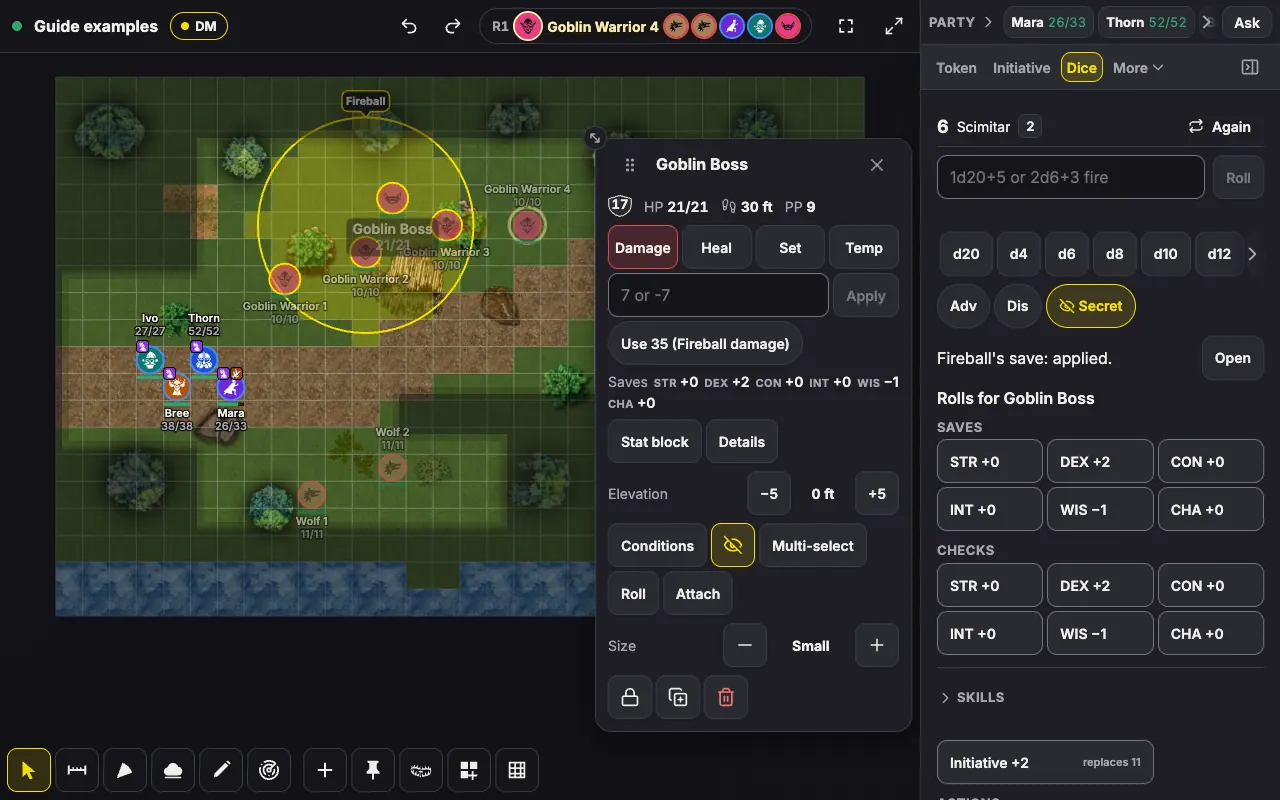
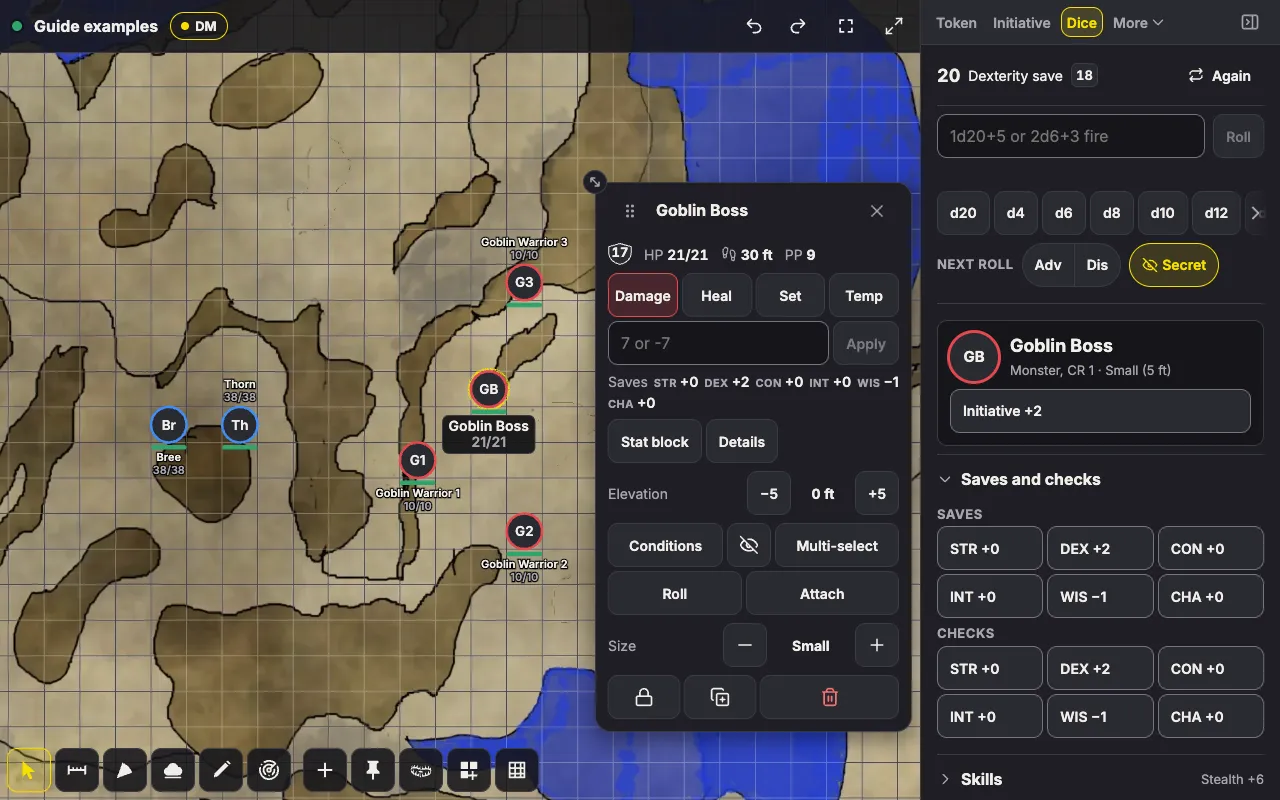
docs: the next roll row, folding recent rolls, the roll options card and groups, and the several selected card in the feature list and the dm guide, with a new dice picture

diff --git a/FEATURES.md b/FEATURES.md
@@ -320,18 +320,18 @@ The Builder tool is the DM's. Its modes:
 
 Every roll happens on the server, with a secure random source, so everyone sees the same result and nobody can fake one.
 
-- The Dice panel is for everyone, after Initiative among the tabs. Type any formula and tap Roll, or press Enter: "10d4+1d8", "4d6kh3" (keep the three highest), "4d6dl1" (drop the lowest), "d%", "2d6+3 fire" (the words after the formula are its label) or "1d20+5 Stealth adv". A roll holds up to 100 dice and 20 parts. The line under the field reads the roll and its range before you roll it, such as "2d6+3, fire: 5 to 15". Quick dice, the d20 first, then d4 to d100, add a die to the field.
-- Adv, Dis and Secret are for the next roll only: the tap that rolls takes them, and they go back to their start, so a second roll never shares the first one's Advantage. Advantage and Disadvantage cancel to a normal roll however many of each a roll has, the words "adv" and "dis" typed in the field included.
+- The Dice panel is for everyone, after Initiative among the tabs. Type any formula and tap Roll, or press Enter: "10d4+1d8", "4d6kh3" (keep the three highest), "4d6dl1" (drop the lowest), "d%", "2d6+3 fire" (the words after the formula are its label) or "1d20+5 Stealth adv". A roll holds up to 100 dice and 20 parts. The line under the field reads the roll and its range before you roll it, such as "2d6+3, fire: 5 to 15". Quick dice, the d20 first, then d4 to d100, add a die to the field, and line up with its edge. Where the field is too narrow for its hint, the hint shortens to "1d20+5".
+- **Next roll** sits under the quick dice: Adv and Dis joined as one choice of two, and Secret beside them, since it answers who sees the roll rather than how it rolls. Where the row has no room, as on a phone at 130%, Secret wraps under them and fills its line. All three are for the next roll only: the tap that rolls takes them, and they go back to their start, so a second roll never shares the first one's Advantage. Advantage and Disadvantage cancel to a normal roll however many of each a roll has, the words "adv" and "dis" typed in the field included.
 - Secret: a DM's rolls for monsters start secret. The Secret chip follows the selection, so a formula the DM types with a monster selected starts secret too, and one typed with no creature selected, or only creatures players play, starts public. One tap changes it. A press holds for the creatures it was made for, and selecting another creature starts Secret again, so a monster's roll starts secret even after the last monster's was shown. A player can send one roll to the DM only. The DMs and the roller read it in full. Other players read "Mara rolled in secret." only when the same roll made public would have reached them, so a roll for a creature they cannot see leaves no trace.
 - The newest roll stays at the top of the panel, with its dice as chips, a dropped die struck through and a natural 20 or 1 marked, and Again rolls it once more. An answer to the DM's request and a Death Saving Throw show there too, with no Again, since neither can go again as it went. A refusal shows there with its reason. On a narrow screen it keeps the total, a Critical Hit's sum and Again whole, shows the dice that fit whole with "+2" for the rest, and ends a long name in "…". A tap on it opens the roll in Recent rolls. It is the one place a roll's result shows in the panel: no row repeats it, so the panel never grows under a button as rolls land.
-- Recent rolls lists every roll in the log, newest first, a roll of several dice groups as one row, with Again on your own. Again rolls it as it went, so a creature's save rolled again is that save again and a condition that fails it, such as Stunned on a Dexterity save, still records the fail. Older rolls are in the Log.
+- Recent rolls lists every roll in the log, newest first, a roll of several dice groups as one row, with Again on your own. Again rolls it as it went, so a creature's save rolled again is that save again and a condition that fails it, such as Stunned on a Dexterity save, still records the fail. A row of one line is one touch target tall, its words level with Again. Older rolls are in the Log. Recent rolls folds like the panel's other groups, open at first, and stays folded or open on this device whoever you roll for. Folded, its row shows the newest roll, such as "Thorn 20 Longsword". A tap on the newest roll at the top opens it for the page without changing what is kept, and brings the roll into view.
 - Others' rolls show as toasts while your Dice panel is not on screen, one for each roll ("Bree rolled 19 for Stealth.", or a damage of two types as its sum, "Bree rolled 14 for Flame Tongue damage."), and a roll of your own whose panel closed before it landed shows as one too. This device can turn the others' off. A toast of one d20 roll (an attack, a save, a check or Initiative) leads with a flat d20 showing the die that counted. A Natural 20, or a Critical Hit against an AC, rings once in your accent, and a Natural 1 is outlined in red. A screen reader hears the verdict after the toast's words.
 - **Roll animation**: a roll you make in the Dice panel throws 3D dice into a band under the newest roll, from the button or field that rolled. They tumble and land on the server's faces 1 second after the answer arrives, and the total, its chips and the Recent rolls row show then. The deciding d20 of a Natural 20 or a Critical Hit rings once, and a Natural 1 is ringed in red. Up to two rows of dice show, the rest counted on a "+N" disc, and percentile dice throw as a tens die and a units die. Any tap or key in the panel during the throw, a newer roll, closing or resizing the panel, or leaving the page shows the result at once, and the tap or key still does its own job. A screen reader hears the result as it arrives. Only your own rolls from the Dice panel throw: others' rolls, the tracker's Roll, rolls for several creatures, the group save and Auto Initiative show at once, as before. The dice load in the background after the room opens, so a roll before they are ready shows at once. With reduced motion, the dice appear already at rest and the result shows at once. With Low power, the switch off, or a device that cannot draw them, every result shows at once. The dice are drawn in code, with no image files.
 - Rolling very fast pauses you for a few seconds ("You are going too fast. Wait a few seconds."). A room's day holds 10,000 rolls and applied changes, a player's 2,000, and the players together leave the DMs 2,000 of them.
 - A roll needs a connection: while the room is offline, Roll is off and says "Rolling needs a connection." A roll sent just before the connection dropped is sent again and still rolls once. If its answer was lost, the device asks the server what became of it, and never rolls it again by itself: "This may have happened. Check the log."
-- **Roll options**: the DM taps a token, a player picks a character, a companion or another creature they own, and the Dice panel lists its saves, checks, skills, Initiative, Death Saves, attacks with riders and Critical Hits, save actions, healing and recharge, from its stat block, 2014 text included. A named roll is one line of text as a stat block reads ("Longsword +6 to hit, 1d8+3 Slashing, +2d8 Divine Smite", or "Sacred Flame DC 14 DEX, 1d8 Radiant" for a save spell, which names its DC) over one line of its controls, Attack, Damage, Critical and its riders by name, and a slot level between a minus and a plus. A button's words wrap inside it. Saves and checks are three across. Conditions such as Restrained, Poisoned or Bless set Advantage, Disadvantage or a die on every d20 roll, and an effect every roll of a group shares is named once in the group's label ("Saves: +1d4: Blessed") rather than on each button. A roll the DM asked for answers the request, Initiative goes into the tracker, and the newest damage, a player's included, shows in every HP entry as "Use 9". Roll in a token's action bar opens them. For a creature a player plays, the DM's "Ask Bree to roll" switch starts on and asks its player for saves and checks. A creature with no stat block, or a character whose numbers go only to the DM and its own players, still lists its saves, checks, skills and Initiative, with no bonus shown: a tap that asks its player needs nothing, and a roll made here takes a bonus typed above them ("STR d20", then "STR d20+3"), never an unknown +0. A player's save spell or save action has **Ask for saves**, which opens a short block under its row: the save and DC, who it hits (the creatures selected, or everyone the player sees in an area placed from it, such as "In area (2): Goblin 1, Bree (ally)"), the casting level, and **Roll 9d6 Fire and ask**, which rolls the damage on the player's own dice in the same tap, or **Ask, the DM rolls**. The ask waits on the row, "Asked the DM for saves. Waiting.", with Withdraw, until the DM resolves it ("The DM resolved Fireball.") or sets it aside. A player has at most 3 asks waiting, and a room 20. Other players never learn of an ask, and a creature the player can't see never enters one.
+- **Roll options**: the DM taps a token, a player picks a character, a companion or another creature they own, and the Dice panel lists its saves, checks, skills, Initiative, Death Saves, attacks with riders and Critical Hits, save actions, healing and recharge, from its stat block, 2014 text included. They sit in a card under a line that parts them from the roller: the creature's picture, its name and a line such as "Level 5 character · Medium (5 ft)", then the Ask switch, Death Save while it is dying, a typed bonus where the app knows none, and Initiative, whose tag says what the tap does ("replaces 12 · −4"). A player with two or more creatures, such as a character, its companion and a lent NPC, picks one from tabs across the card's top, the picked one underlined. Under the card the options fold into groups in the stat block's order: Saves and checks, Skills, Traits, Actions, Bonus Actions, Reactions, Legendary Actions and Spells, the spells under Cantrips, Level 1 and so on where they span levels. On a computer Saves and checks start open and on a phone folded, Skills and Traits start folded everywhere, and the rest open. A group you fold or open stays that way on this device, kept apart for characters, companions and monsters, and viewing as a player never stores one. A folded group shows a one-line summary, such as "Str +4, Dex +1, Con +3…" or "DC 14 · +6 to hit · 13 spells". A new ask for a save or check, or a new ask for saves you cast, opens its group once, and while one waits in a group you folded again, its summary leads with it: "Asked: DEX save". A token's Roll lands the panel on Next roll, whole under the newest roll, with the card after it. A named roll is one line of text as a stat block reads ("Longsword +6 to hit, 1d8+3 Slashing, +2d8 Divine Smite", or "Sacred Flame DC 14 DEX, 1d8 Radiant" for a save spell, which names its DC) over one line of its controls, Attack, Damage, Critical and its riders by name, and a slot level between a minus and a plus. A button's words wrap inside it, and a row's buttons share each line. Saves and checks are three across. Conditions such as Restrained, Poisoned or Bless set Advantage, Disadvantage or a die on every d20 roll, and an effect every roll of a group shares is named once in the group's label ("Saves: +1d4: Blessed") rather than on each button. A roll the DM asked for answers the request, Initiative goes into the tracker, and the newest damage, a player's included, shows in every HP entry as "Use 9". Roll in a token's action bar opens them. For a creature a player plays, the DM's "Ask Bree to roll" switch starts on and asks its player for saves and checks. A creature with no stat block, or a character whose numbers go only to the DM and its own players, still lists its saves, checks, skills and Initiative, with no bonus shown: a tap that asks its player needs nothing, and a roll made here takes a bonus typed above them ("STR d20", then "STR d20+3"), never an unknown +0. A player's save spell or save action has **Ask for saves**, which opens a short block under its row: the save and DC, who it hits (the creatures selected, or everyone the player sees in an area placed from it, such as "In area (2): Goblin 1, Bree (ally)"), the casting level, and **Roll 9d6 Fire and ask**, which rolls the damage on the player's own dice in the same tap, or **Ask, the DM rolls**. The ask waits on the row, "Asked the DM for saves. Waiting.", with Withdraw, until the DM resolves it ("The DM resolved Fireball.") or sets it aside. A player has at most 3 asks waiting, and a room 20. Other players never learn of an ask, and a creature the player can't see never enters one.
 - **Critical Hits**: an attack's Critical, which a natural 20 (or a wider critical range) presses on its own, rolls every damage die of the hit, riders such as Sneak Attack included, by the room setting "Critical Hit damage" (Room settings, Combat): Roll the dice twice (2d6+3 crits as 4d6+3, the 2024 rule and the default), Max plus a roll (12 + 2d6 + 3), Double the dice rolled ((2d6 × 2) + 3) or Double the total ((2d6 + 3) × 2). One rule for monsters and characters alike, applied by the server. The roll shows how it was reached: in the log and Recent rolls ("12 max + 2d6+3 (4, 6) = 25"), and at the top of the Dice panel and in its toast ("25 (12 max + 13)"). Saves never crit.
-- **Several creatures** (DM): one save or check for all, Initiative for the ones in the fight, or a shared attack with its hits against an AC and its damage.
+- **Several creatures** (DM): a card with up to three of their pictures, "3 selected" and their names, holding a DC, Initiative for the ones in the fight and Set up a group save. Under it, Saves and checks, Skills and Shared attacks fold as a creature's groups do, each kept on this device. A save's button reads "DEX" under the label "Saves for 3", one line at every size, and is still named "DEX save for 3". One tap rolls a save or check for all. A shared attack rolls with each creature's own bonus against an AC, then "Roll damage for 2 hits" rolls the hits' damage. Folding Shared attacks, or selecting other creatures while two or more stay selected, keeps the hits and the damage button, and a folded group names the hits that wait ("Scimitar: 2 hits"). Fewer than two selected clears them. A group save left open shows as a notice above the card, "Fire Breath's save: set up.", with Open.
 - **The group save** (DM): monsters rolled at once, players' creatures asked with the DM's roll one tap away (with a bonus the DM types for one with no stat block), a creature with no stat block rolled on the server with a bonus the DM types ("Server d20+3") or typed, pass or fail against a DC, damage rolled once and kept by type, full or half, conditions on a fail with their end, resistances, immunities, Evasion, Magic and Legendary Resistance on each row, every row changeable, its damage included, one Apply and one undo. Until the roll its creatures follow the selection, so a save action's Group save fills with the creatures selected after it. Monsters' rolls the DM shows to players carry the DC only with "Players see the DC" on, and a save-ends or Concentration roll in the open never shows its DC. Those switches fold into one "What players see" line that says what they are, as on the request sheet, and the damage field is labelled Damage. It stays on the DM's device through a reload, and an Apply whose answer was lost is never sent again unless the DM says so. A player's ask for saves comes as a card above the live cards, "Thorn asks for saves: Fireball, level 4", with the player's roll ("Thorn rolled 31 Fire") and the area's count, hidden creatures included, or the targets, with Open and Dismiss. It counts among the newest two on a phone and leads the alerts summary over a sheet. Open fills the group save from the caster's stat block as the DM sees it, at the asked level, whose Slot level stepper changes it, with the player's roll as the page's damage, and an ask on another scene reads "Go to Crypt and open". Apply resolves the ask in the same step, and where nothing would change it reads Close the ask. Discard leaves the ask waiting, and Dismiss sets it aside for good. An ask withdrawn or set aside while the page is open leaves a plain group save, and one resolved on another device stops Apply, so a spell never lands twice.
 
 ## Rolls
@@ -596,6 +596,7 @@ Where the action bar opens as a window: on a screen 600 px or wider, or a phone 
 | Up, Down | Go back through the formulas this device rolled, newest first, or forward again to what was being typed | everyone, in the formula field |
 | Any tap or key | Show the result at once, then do its own job | everyone, in the Dice panel while your dice are in the air |
 | Enter | Roll the parts, or take the typed numbers | DM, in the group save's damage field |
+| Left, Right, Home, End | Pick another creature to roll for | everyone, in the Dice panel's creature tabs |
 
 ### Roll requests
 

diff --git a/docs/dm-guide.md b/docs/dm-guide.md
@@ -612,7 +612,7 @@ A few more details follow from this. A creature added mid-fight waits for its ow
 
 Every roll in the app happens on the server, so everyone sees the same result and nobody can fake one. Players who prefer real dice can still roll at the table and type their totals wherever the app asks for one, unless you turn off **Players may type their roll totals** in Room settings. The **Dice** panel is open to everyone.
 
-![The Dice panel with a goblin selected: the formula field, quick dice, Adv, Dis and Secret, and the goblin's roll options with its saves, checks and Initiative.](dm-guide/dice.webp)
+![The Dice panel with the Goblin Boss selected: its last roll at the top, the formula field and quick dice, Adv and Dis joined under Next roll beside Secret, and the boss's card with Initiative above its open Saves and checks and its folded Skills.](dm-guide/dice.webp)
 
 **Typing a roll.** Type a formula in the field and press **Roll** or Enter. A few examples of what it understands:
 
@@ -624,9 +624,9 @@ Every roll in the app happens on the server, so everyone sees the same result an
 
 The line under the field reads back the roll and its range before you roll it ("2d6+3, fire: 5 to 15"), so you can catch a typo. The quick dice add a die to the field, and the Up and Down keys step back through the formulas you have rolled.
 
-**Adv**, **Dis** and **Secret** apply to the next roll only, then turn themselves off. A secret roll shows in full to the DMs, while the other players read only "Dana rolled in secret." Your rolls for monsters start secret: with a monster selected, even a formula you type starts secret. With nothing selected, or a character selected, it starts in the open.
+Under the quick dice sits the **Next roll** row. **Adv** and **Dis** are joined into one control, because a roll takes one or the other, never both, and **Secret** stands on its own beside them, since it decides who sees the roll rather than how it is rolled. On a narrow phone with a larger interface size, Secret moves to a line of its own under the other two. All three apply to the next roll only, then turn themselves off. A secret roll shows in full to the DMs, while the other players read only "Dana rolled in secret." Your rolls for monsters start secret: with a monster selected, even a formula you type starts secret. With nothing selected, or a character selected, it starts in the open.
 
-The newest roll stays at the top of the panel with its dice, and **Again** rolls it once more. This line is the one place in the panel where a result appears, even for a roll you made from a creature's roll options further down, so the panel never grows under your finger as rolls land. An answer you send to a request and a Death Saving Throw show there too, without Again, since neither can be sent again as it was. On a narrow screen the line keeps the total and Again whole, shows as many dice as fit, and counts the rest as "+2". Tap the line to see the whole roll in Recent rolls. **Recent rolls** lists the rolls in the log, newest first. Other people's rolls pop up as short notices while your Dice panel isn't on screen. To turn those off, open the Menu, then **This device**, and turn off **Show others' rolls as they happen**.
+The newest roll stays at the top of the panel with its dice, and **Again** rolls it once more. This line is the one place in the panel where a result appears, even for a roll you made from a creature's roll options further down, so the panel never grows under your finger as rolls land. An answer you send to a request and a Death Saving Throw show there too, without Again, since neither can be sent again as it was. On a narrow screen the line keeps the total and Again whole, shows as many dice as fit, and counts the rest as "+2". Tap the line to see the whole roll in Recent rolls. **Recent rolls** lists the rolls in the log, newest first, at the foot of the panel. Like the other groups in the panel, it folds away with a tap on its name, and while it is folded its row still names your newest roll, such as "Thorn 20 Longsword". Tapping the newest roll at the top opens the list again for the moment and scrolls to that roll, without changing how your device remembers it. Other people's rolls pop up as short notices while your Dice panel isn't on screen. To turn those off, open the Menu, then **This device**, and turn off **Show others' rolls as they happen**.
 
 **Dice you can watch.** When you roll from the Dice panel, the dice tumble out of the button or field you used and land in a band just under the newest roll, about a second after the server answers. The total appears as they land. The server has already decided the roll by then, so the dice only show what happened: they never change it, and everyone else reads your result in the log straight away. A Natural 20, or a Critical Hit, rings in your color as the die lands, and a Natural 1 is ringed in red. A big roll shows two rows of dice and counts the rest on a "+9" disc.
 
@@ -636,28 +636,45 @@ To choose how your dice look, open the Menu, then **This device**, and pick a se
 
 ### Roll options
 
-Rather than typing a monster's bonuses, let the app read them from its stat block. Select one token, or press **Roll** in its action bar, and the Dice panel lists its rolls under **Rolls for Goblin Warrior 1**:
+Rather than typing a monster's bonuses, let the app read them from its stat block. Select one token, or press **Roll** in its action bar, and the Dice panel shows that creature's rolls below a line that sets them apart from the formula field. When you open the panel from a token's **Roll**, it lands on the **Next roll** row, so you can press Advantage on the way to the attack.
 
-- **Saves**, **Checks** and **Skills**, each with its bonus. Conditions apply on their own, and the roll says so ("Dis: Restrained", "+1d4: Blessed", "Fails: Stunned").
-- **Initiative**, which sets the creature's row in a running fight ("Initiative +2, sets its row", or "replaces 14").
-- **Death Save**, while the creature is dying.
-- Its traits, actions, Bonus Actions, Reactions and Legendary Actions. Each one reads the way a stat block prints it, such as "Scimitar +4 to hit, 1d6+2 Slashing", with its buttons on the line underneath: **Attack**, **Damage** and **Critical**. A natural 20 on the attack turns on **Critical** for the damage that follows, which then rolls by the room's **Critical Hit damage** rule (see [Room settings](#room-settings-for-fights-and-maps)). Riders such as **Sneak Attack** are chips you can add, and the line above names them with their dice. An action that calls for a saving throw reads like "DC 13 DEX, 2d6 Fire" and has a **Group save** button, which opens the [group save](#the-group-save). Multiattack appears as a note at the head of the actions: roll each attack it names in turn.
+First comes the creature's card: its picture, its name and a short line such as "Monster, CR 1 · Small (5 ft)", so you can see at a glance whose rolls these are. The card also holds what you reach for at the start of a fight or when a life is at stake:
+
+- **Initiative**, which sets the creature's row in a running fight. Its tag tells you what a tap will do, and then any bonus or penalty it carries ("replaces 12 · −4").
+- **Death Save**, while the creature is dying, at the top of the card.
+- **Ask Thorn to roll**, for a creature a player plays (more on that below).
+
+Under the card, the creature's options are sorted into groups that fold, in the order a stat block prints them. Tap a group's name to fold it or open it again. While a group is folded, its row gives a one-line summary, so you can often read what you need without opening it, such as a monster's saving throw bonuses.
+
+- **Saves and checks**, each with its bonus. Conditions apply on their own, and the roll says so ("Dis: Restrained", "+1d4: Blessed", "Fails: Stunned").
+- **Skills**, for the moments outside combat.
+- Its **Traits**, **Actions**, **Bonus Actions**, **Reactions** and **Legendary Actions**. Each one reads the way a stat block prints it, such as "Scimitar +4 to hit, 1d6+2 Slashing", with its buttons on the line underneath: **Attack**, **Damage** and **Critical**. A natural 20 on the attack turns on **Critical** for the damage that follows, which then rolls by the room's **Critical Hit damage** rule (see [Room settings](#room-settings-for-fights-and-maps)). Riders such as **Sneak Attack** are chips you can add, and the line above names them with their dice. An action that calls for a saving throw reads like "DC 13 DEX, 2d6 Fire" and has a **Group save** button, which opens the [group save](#the-group-save). Multiattack appears as a note at the head of the actions: roll each attack it names in turn.
 - An action that recharges shows **Recharge 5–6** and a **Used** switch. Rolling its damage or its group save marks it used. **Recharge 1d6** rolls the recharge, and the app reminds you at the start of the monster's turn. See [Alerts during a fight](#alerts-during-a-fight).
-- For a character with a stat block: its weapons and spells, each save spell with its DC in its line ("DC 14 WIS"), **Spell save DC**, **Spell attack**, and a slot level for spells that scale, which you step with its minus and plus buttons on either side of "Level 2".
+- For a character with a stat block: its weapons and **Spells**, each save spell with its DC in its line ("DC 14 WIS"), **Spell save DC**, **Spell attack**, and a slot level for spells that scale, which you step with its minus and plus buttons on either side of "Level 2". When the spells span more than one level, they are sorted under **Cantrips**, **Level 1** and so on, as a character sheet lists them.
+
+The groups that matter in a fight start open, and the rest start folded. On a computer, Saves and checks start open. On a phone, where room is tight, they start folded, one tap away. Skills and Traits start folded everywhere. Once you fold or open a group, your device remembers it, separately for characters, companions and monsters, so folding a monster's Saves and checks never folds them for a player's character. Viewing the room as a player never changes what your device remembers.
+
+A group also opens on its own when it matters. When you ask a player for a save and their creature's Saves and checks are folded, that group opens once so the asked save is in view. If you fold it again while the ask waits, its row leads with the ask ("Asked: DEX save"), so you don't lose track of it.
 
 Whenever someone rolls damage, its total appears in every HP entry as **Use 9**, so you can apply it with one tap.
+
+Your players see the same panel for their own creatures. A player with more than one, such as a character and its companion, picks between them with tabs across the top of the card, each with the creature's picture and name, and the arrow keys move between those tabs too.
 
 For a creature a player plays, **Ask Thorn to roll** (on by default) changes what a tap on a save or check does: instead of rolling it yourself, it opens [Request a roll](#asking-for-rolls) for that player. Turn it off when you would rather roll for them.
 
 ### Several creatures
 
-With several tokens selected, the Dice panel offers rolls for the whole group:
+With several tokens selected, the Dice panel offers rolls for the whole group. Its card shows up to three of their pictures, how many you have selected ("4 selected") and their names, and holds what acts on all of them together: an optional **DC**, **Initiative for the 4 in the fight**, and **Set up a group save** for when you want to fill in the save yourself.
 
-- One save or check for all of them, against an optional **DC** ("DEX save for 4").
-- **Initiative for the 4 in the fight**.
-- **Shared attacks**: an attack every selected monster has ("Scimitar for 4"), rolled against a **Target's AC**, followed by **Roll damage for 2 hits** for the ones that hit.
+Under the card, the rolls fold into groups, as they do for one creature:
 
-A group save or check opens the [group save](#the-group-save) page, where monsters roll on the server and players are asked to roll.
+- **Saves and checks**: one save or check for all of them. The buttons read simply "DEX" under the label "Saves for 4", so they stay on one line on any screen, but each is still named in full ("DEX save for 4") for screen readers and voice control.
+- **Skills**, folded to start with.
+- **Shared attacks**: an attack every selected monster has ("Scimitar for 4"), each rolled with that monster's own bonus against a **Target's AC**, followed by **Roll damage for 2 hits** for the ones that hit.
+
+A shared attack keeps its result while you work. You can fold the group between the attack and its damage, or select another creature or let one go, and as long as two or more stay selected, the hits and **Roll damage** are waiting when you come back. While the group is folded, its row reminds you of them ("Scimitar: 2 hits"). Selecting fewer than two clears them.
+
+A group save or check opens the [group save](#the-group-save) page, where monsters roll on the server and players are asked to roll. If you step back from that page before it is finished, the panel shows a notice above the card, such as "Fire Breath's save: set up.", with **Open** to return to it.
 
 ## Asking for rolls
 
